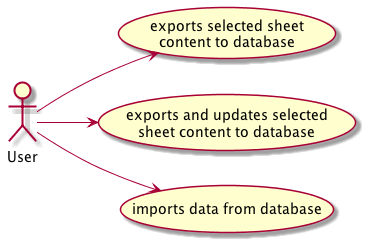
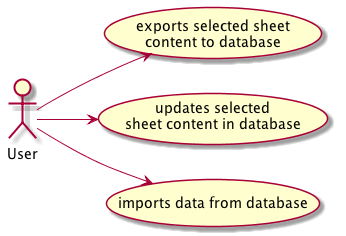
1111168: fix uc diagrams ref #9 #10

Changed region(s): [[0.0, 0.0, 0.9538, 0.9788], [0.2312, 0.3856, 0.9827, 0.6525], [0.0, 0.6229, 0.1156, 0.6822]]

diff --git a/docs/1111168/UmlDiagrams.java b/docs/1111168/UmlDiagrams.java
@@ -259,7 +259,7 @@ UpdateCellContent: triggerUpdate()
 @startuml use_case_persistence_v1.png
 left to right direction
 User --> (exports selected sheet \ncontent to database)
-User --> (exports and updates selected \nsheet content to database)
+User --> (updates selected \nsheet content in database)
 User --> (imports data from database)
 @enduml 
 
